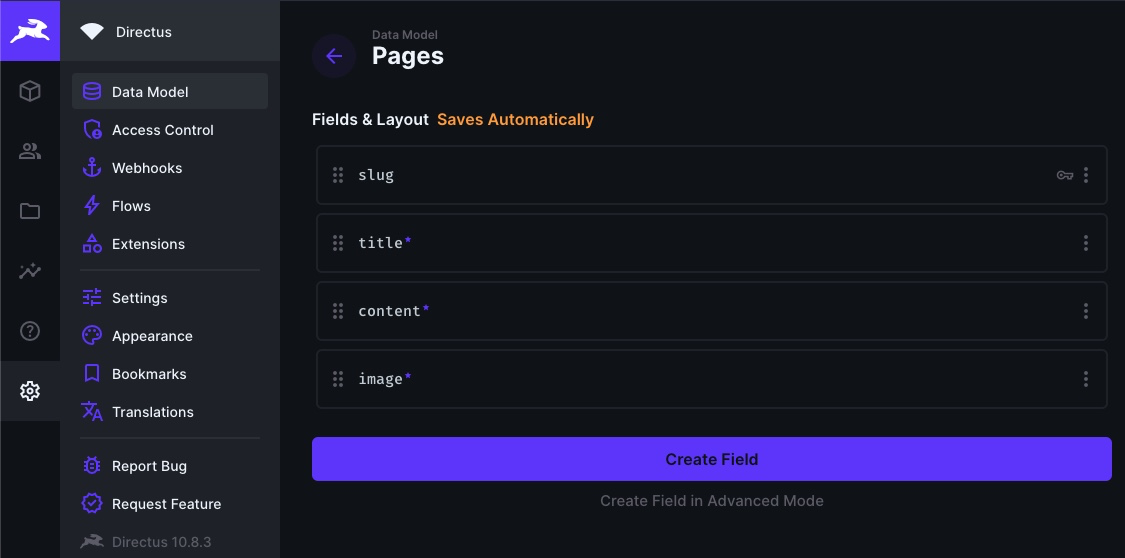
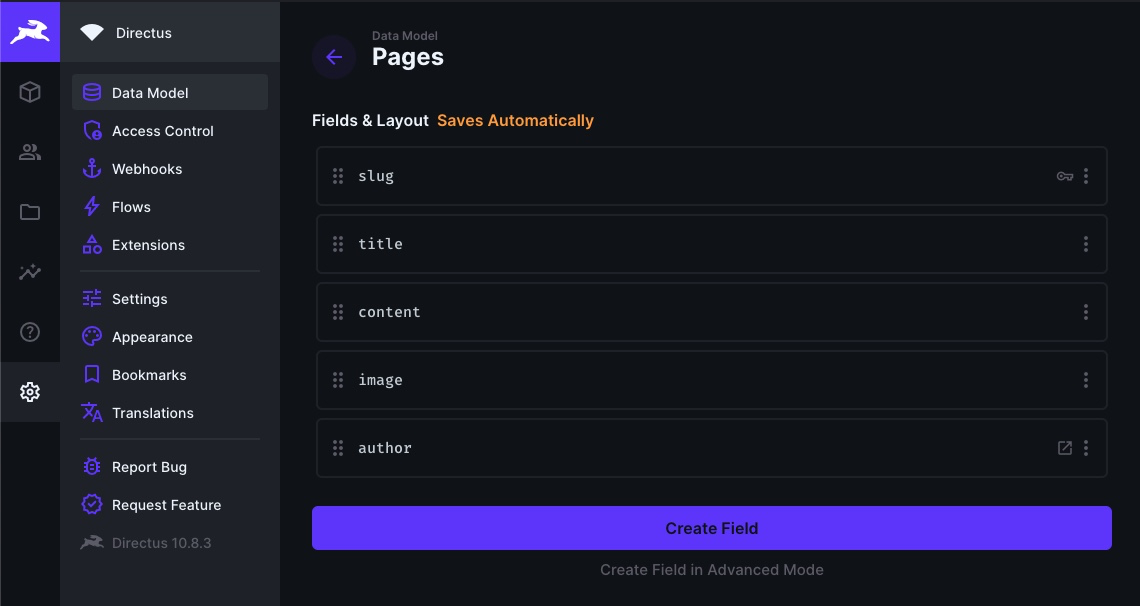
Updated article according to standard format

diff --git a/gatsby-directus-website/index.md b/gatsby-directus-website/index.md
@@ -61,35 +61,13 @@ npm run develop
 
 Your website is live at `http://localhost:8000/`
 
-## Add Directus Content
-
-Create a Directus collection named page, and make the Primary ID Field a `Manually Entered String` called `slug`.
-
-Then add the following fields:
-
-- title (string)
-- content (either WISIWYG or Markdown)
-- image (image)
-
-![Our Directus collection, which contains a title, slug, content, and an image](./collection.png)
-
-![Add public permissions to a Directus collection](./collection-permissions.png)
-
-Do not forget to add the read permission to the `directus_files` collection (you have to clikc on "System Collections").
-
-![Add public permissions to the `directus_files` system collection](./file-permissions.png)
-
-## Creating Pages With the Directus Plugin
-
-### Configuring the Plugin
+### Configuring Directus Plugin and SDK
 
 This will make each item in your collection into its own page on your Gatsby site.
 
 Directus maintains an official plugin for Gatsby. That plugin turns your Directus content is turned into Gatsby source nodes. You can query these nodes everywhere in your Gatsby site, using the GraphQL API, just like you would with Markdown files.
 
-Now, we can instruct Gatsby to build a static page for each entry in our `pages` collection.
-
-First, you need to add and configure the Directus plugin and the other Gatsby plugins that act as dependencies. Update your `gatsby-config.js` file as follows:
+First, you need to add and configure the Directus plugin, the and the other Gatsby plugins that act as dependencies. Update your `gatsby-config.js` file as follows:
 
 ```js
 module.exports = {
@@ -118,9 +96,76 @@ module.exports = {
 };
 ```
 
-Now our plugins are configured. We can move to on to creating the individual pages.
+Now our plugins are configured
 
-### Creating a Template File
+## Accessing Global Metadata and Settings
+
+Create a Directus collection named `global`, and tick "Treat as a single object."
+
+![A new collection named global, with 'Treat as a single object' selected](./global-collection.png)
+
+Next, we'll setup a static hook with a GraphQL query so can use this global metadata everywhere in our Gatsby site.
+
+Create a new file named `directus.js` in your `./src` directory (static queries only work in that folder).
+
+```js
+import { useStaticQuery, graphql } from "gatsby";
+
+export const useGlobalMetadata = () => {
+  const { directus } = useStaticQuery(graphql`
+    {
+      directus {
+        global {
+          title
+        }
+      }
+    }
+  `);
+
+  return directus.global;
+};
+```
+
+Now let's get rid of all the boilerplate in our index page (`src/pages/index.js`) and replace it with this:
+
+```js
+import React from "react";
+import { useGlobalMetadata } from "../directus";
+
+const IndexPage = ({ data }) => {
+  const pages = data.directus.pages;
+  const global = useGlobalMetadata();
+
+  return (
+    <main>
+      <h1>{global.title}</h1>
+    </main>
+  );
+};
+
+export default IndexPage;
+```
+
+## Adding Directus Content
+
+Create a Directus collection named collection named `authors`, with at least one input field.
+
+Then, create another collection named `pages` and add the following fields to the
+
+- title (input)
+- content (either WISIWYG or Markdown)
+- image (image)
+- author (Many To One, under Relational), related to the `authors` collection.
+
+![Our Directus collection, which contains a title, slug, content, an image, and an author](./collection.png)
+
+![Add public permissions to a Directus collection](./collection-permissions.png)
+
+Do not forget to add the read permission to the `directus_files` collection (you have to click on "System Collections").
+
+![Add public permissions to the `directus_files` system collection](./file-permissions.png)
+
+## Creating Dynamic Routes with Directus
 
 First, we need to create a Gatsby template, this component determines what each page will look like.
 
@@ -195,30 +240,31 @@ You might have forgotten to also give the `directus_files` collection read acces
 This is due to that by default the file object only includes the image name, but not the actual binary file from the Directus endpoint. To fix this refer to the screenshot in the second section of this article.
 :::
 
-If you navigate to the slug of one your pages, like
-`/blog/rabbit-facts`, you will see your template file rendered.
+Now each item in your Directus collection is a page, and you can navigate to it using its slug, like `/blog/rabbit-facts`. There, you will see your template file rendered.
 
 ![An individual page showing a blog post with an image, a title, followed by text content.](./individual-page.png)
 
-## Creating an Index
+## Listing Blog Posts in an Index Page
 
 Next, we want to create an index page that shows you all the items in our collection. We created individual pages for each item using the official plugin, which also made Gatsby nodes for us.
 
 We can use the GraphQL API to query these nodes and list everything in our index page.
 
-First, delete all the styles that were created by `npm init`, then replace the content with the following:
+First, update our index page with the following:
 
 ```jsx
 import React from "react";
 import { graphql, Link } from "gatsby";
 import { GatsbyImage, getImage } from "gatsby-plugin-image";
+import { useGlobalMetadata } from "../directus";
 
 const IndexPage = ({ data }) => {
   const pages = data.directus.pages;
+  const global = useGlobalMetadata();
 
   return (
     <main>
-      <h1>All Pages</h1>
+      <h1>{global.title}</h1>
       {pages.map((page) => {
         const image = getImage(page.image.imageFile);
         return (
@@ -255,13 +301,49 @@ export const query = graphql`
 `;
 
 export default IndexPage;
+```
 
-export const Head = () => <title>Home Page</title>;
+## Adding navigation
+
+To navigate to other pages from your index, you need to use the `Link` component from Gatsby, just like we did earlier.
+
+This is how you would add a link to an `about` page:
+
+```diff
+<h1>{global.title}</h1>
++ <nav>
++   <ul>
++     <li>
++       <Link to={`/about`}>Read More</Link>
++     </li>
++   </ul>
++ </nav>
+```
+
+And then we can create an `about.js` in our `src/pages` folder like so:
+
+```js
+import React from "react";
+import { useGlobalMetadata } from "../directus";
+
+const AboutPage = () => {
+  const global = useGlobalMetadata();
+
+  return (
+    <main>
+      <h1>{global.title}</h1>
+
+      <p>YOUR_CONTENT</p>
+    </main>
+  );
+};
+
+export default AboutPage;
 ```
 
 ## Summary
 
-You've learned:
+Thats it! You've learned:
 
 - How to use the official Directus plugin to transform your content into source nodes
 - How to create static pages for each item in a Directus collection.
